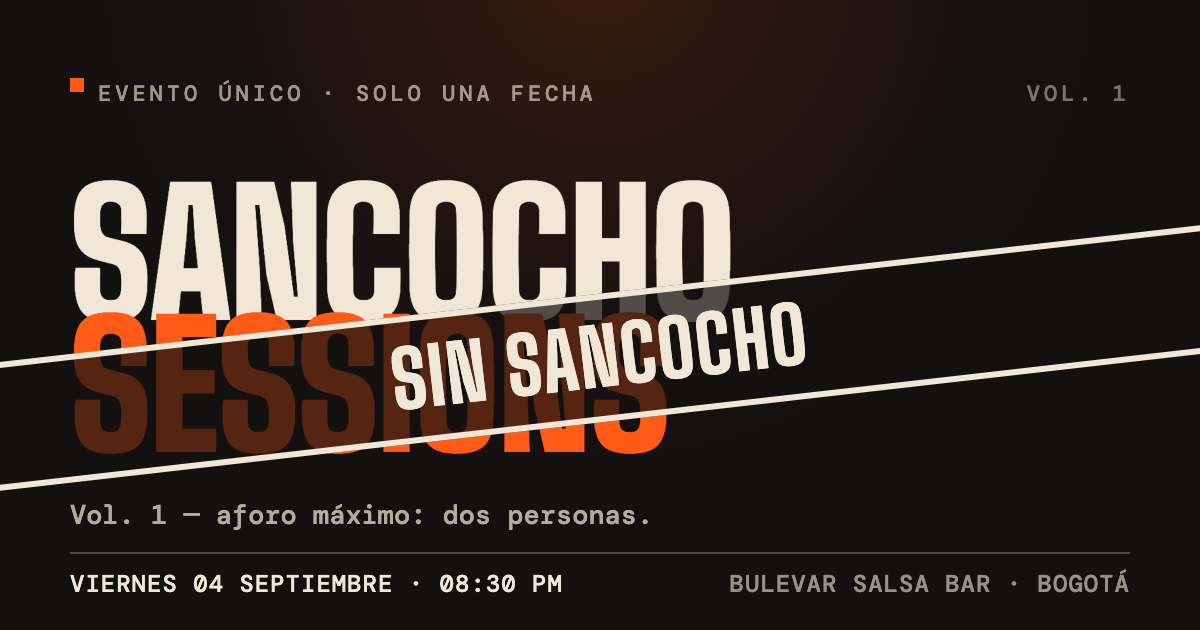
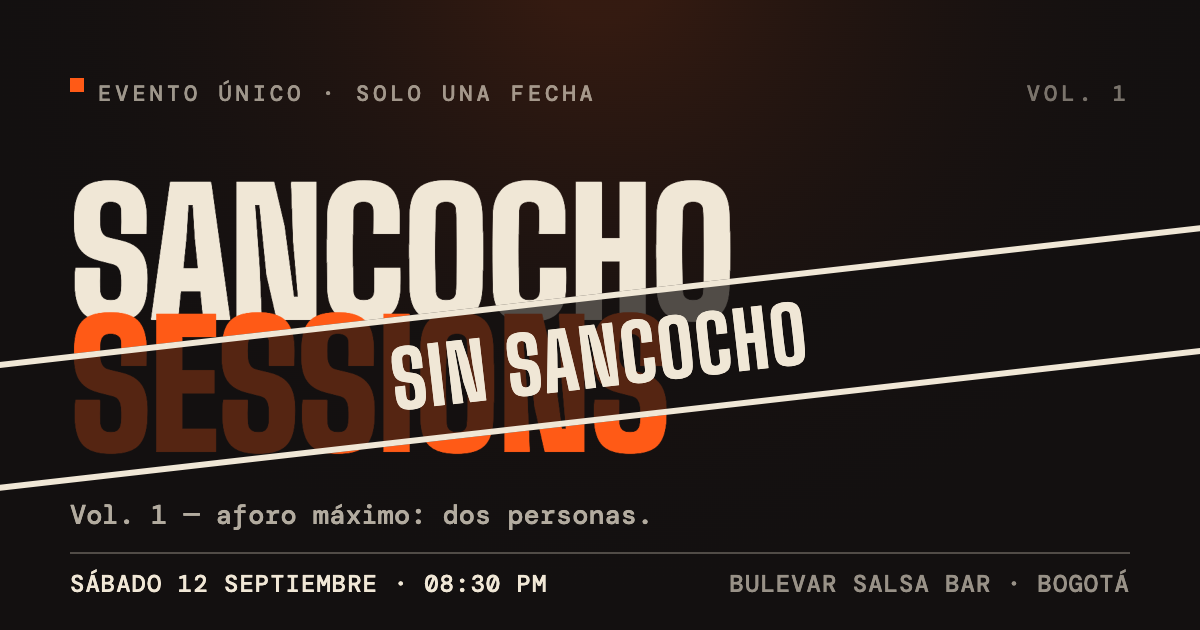
Ronda 6: cambio de fecha a SÁBADO 12 SEPTIEMBRE
- config.js: date VIERNES 04 SEPTIEMBRE -> SÁBADO 12 SEPTIEMBRE (hora 08:30 pm
  y lugar sin cambios). Hero y rider salen de config, quedan consistentes.
- index.html: meta description / og:description / twitter:description decían
  "Un solo viernes" -> "Un solo sábado" (no había otro "viernes" hardcodeado).
- og.png regenerado (variante visual, 1200x630) con SÁBADO 12 SEPTIEMBRE ·
  08:30 PM; og:image y twitter:image suben a ?v=3 para invalidar la caché.

Sin cambios de diseño/copy/lógica. Consola limpia, sin scroll horizontal
en 360/390.

Changed region(s): [[0.0617, 0.9048, 0.4625, 0.9349]]

diff --git a/index.html b/index.html
@@ -6,7 +6,7 @@
     <meta name="theme-color" content="#131010" />
 
     <title>Sancocho Sessions — Vol. 1 (sin sancocho)</title>
-    <meta name="description" content="Evento único. Un solo viernes. Cero vallenato." />
+    <meta name="description" content="Evento único. Un solo sábado. Cero vallenato." />
 
     <!-- Open Graph / WhatsApp / Twitter link preview -->
     <!-- IMPORTANT: og:image must be an ABSOLUTE url on the final production domain. -->
@@ -14,15 +14,15 @@
     <meta property="og:type" content="website" />
     <meta property="og:url" content="https://sancocho-sessions.vercel.app/" />
     <meta property="og:title" content="Sancocho Sessions — Vol. 1 (sin sancocho)" />
-    <meta property="og:description" content="Evento único. Un solo viernes. Cero vallenato." />
-    <meta property="og:image" content="https://sancocho-sessions.vercel.app/og.png?v=2" />
+    <meta property="og:description" content="Evento único. Un solo sábado. Cero vallenato." />
+    <meta property="og:image" content="https://sancocho-sessions.vercel.app/og.png?v=3" />
     <meta property="og:image:width" content="1200" />
     <meta property="og:image:height" content="630" />
     <meta property="og:image:type" content="image/png" />
     <meta name="twitter:card" content="summary_large_image" />
     <meta name="twitter:title" content="Sancocho Sessions — Vol. 1 (sin sancocho)" />
-    <meta name="twitter:description" content="Evento único. Un solo viernes. Cero vallenato." />
-    <meta name="twitter:image" content="https://sancocho-sessions.vercel.app/og.png?v=2" />
+    <meta name="twitter:description" content="Evento único. Un solo sábado. Cero vallenato." />
+    <meta name="twitter:image" content="https://sancocho-sessions.vercel.app/og.png?v=3" />
 
     <link rel="icon" href="/favicon.svg" type="image/svg+xml" />
 

diff --git a/src/config.js b/src/config.js
@@ -5,7 +5,7 @@
 
 export const EVENT = {
   // Línea de fecha del hero, en MAYÚSCULAS (así aparece tal cual).
-  date: 'VIERNES 04 SEPTIEMBRE',
+  date: 'SÁBADO 12 SEPTIEMBRE',
 
   // Hora (fila HORA del rider). Escríbela como quieras verla.
   time: '08:30 pm',
